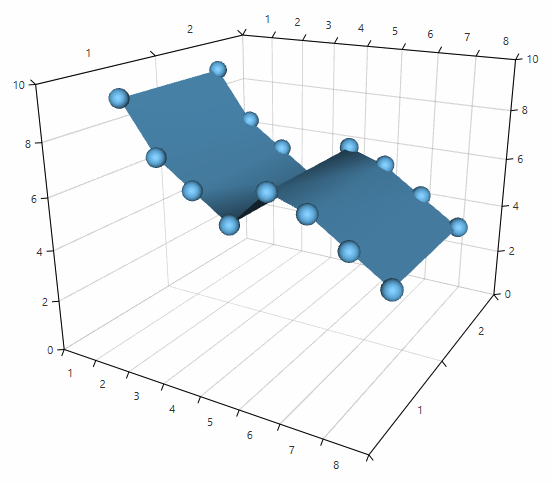
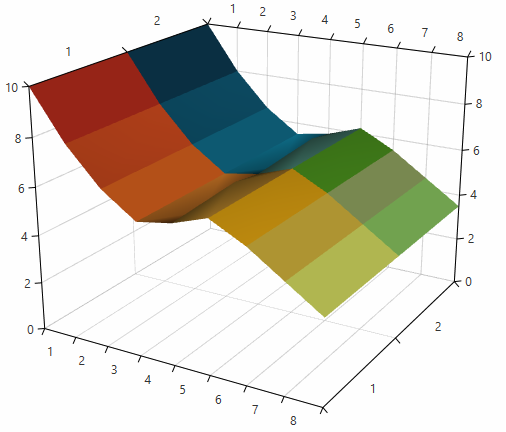
ChartView3D: Update SurfaceSeries3D article. Added info about the ColorizationMode property.

diff --git a/controls/radchartview3d/series/surfaceseries3d.md b/controls/radchartview3d/series/surfaceseries3d.md
@@ -191,21 +191,32 @@ The __SurfaceSeries3D__ colorizer determines the color appearance of the surface
 		
 		this.surfaceSeries.DataContext = source;
 		
-	#### __Figure 3: SurfaceSeries3DDataPointColorizer__  
+	#### __Figure 3: SurfaceSeries3DDataPointColorizer with default blending colorization mode__  
 	![](images/radchartview-3d-surfaceseries3d-2.png)
+	
+	The __SurfaceSeries3DDataPointColorizer__ supports two colorization modes which determines the appearance of the surface. The mode can be changed via the __ColorizationMode__ property of the colorizer and it accepts the following values:
+	
+	* __Blend__: The surface is divided into triangles determined by the original data points centers. The pixels in each triangle are color blends between the three colors determined by the data points (see __Figure 3__). This is the default colorization mode.
+	* __Tiles__: Each data point is presented by a tile with a solid color (see __Figure 4__).
+	
+	#### __[XAML] Example 9: Setting colorization mode__  
+		<telerik:SurfaceSeries3DDataPointColorizer ColorizationMode="Tiles"/>
+	
+	#### __Figure 4: SurfaceSeries3DDataPointColorizer with ColorizationMode set to Tiles__  
+	![](images/radchartview-3d-surfaceseries3d-3.png)
 	
 ## Display direction
 
 The display direction specifies how the 3D points are connected, thus how the surface is displayed. The points are connected in a way to respect their 2D position on the plane which is perpendicular to the display direction. For example, if the display direction is the Z axis, then the points are connected so that their 2D position in the XY plane is respected.
 
-#### __[XAML] Example 9: Setting display direction__  
+#### __[XAML] Example 10: Setting display direction__  
 	<telerik:SurfaceSeries3D DisplayDirection="Z" />
 	
 ## Customizing surface triangulation	
 
 __SurfaceSeries3D__ allows you define a custom collection of triangle indices used to create the triangles which form the surface. The indices collection will be set to the __MeshGeometry3D__ object that presents the surface. To pass the custom triangulation you can use the __TriangleIndices__ collection of __SurfaceSeries3D__. When the collection is null, the chart calculates the triangle indices automatically.
 
-#### __[C#] Example 9: Setting display direction__  
+#### __[C#] Example 11: Setting display direction__  
 	surfaceSeries.TriangleIndices = GetTriangleIndices();
 	//....
 	private Int32Collection GetTriangleIndices()
@@ -217,14 +228,14 @@ __SurfaceSeries3D__ allows you define a custom collection of triangle indices us
 
 By default the data points of the series are not visible and only the surface can be seen. You can display the data point visuals by setting the __PointSize__ property. 
 
-#### __[XAML] Example 10: Setting point size in XAML__  
+#### __[XAML] Example 12: Setting point size in XAML__  
 	<telerik:SurfaceSeries3D PointSize="60 60 60">
 
-#### __[C#] Example 11: Setting point size in code__  
+#### __[C#] Example 13: Setting point size in code__  
 	surfaceSeries.PointSize = new Size3D(60, 60, 60);
 
-#### __Figure 4: SurfaceSeries3D default point visuals__  
-![](images/radchartview-3d-surfaceseries3d-3.png)
+#### __Figure 5: SurfaceSeries3D default point visuals__  
+![](images/radchartview-3d-surfaceseries3d-4.png)
 	
 To customize the geometry and the material of the visual elements that represent the __SurfaceSeries3D__ data points you can use the __DefaultVisualMaterial__ and __DefaultVisualGeometry__ properties of the series. Additionally, you can use the __DefaultVisualMaterialSelector__ and __DefaultVisualGeometrySelector__ to choose different materials and geometries based on a specific condition.
  
